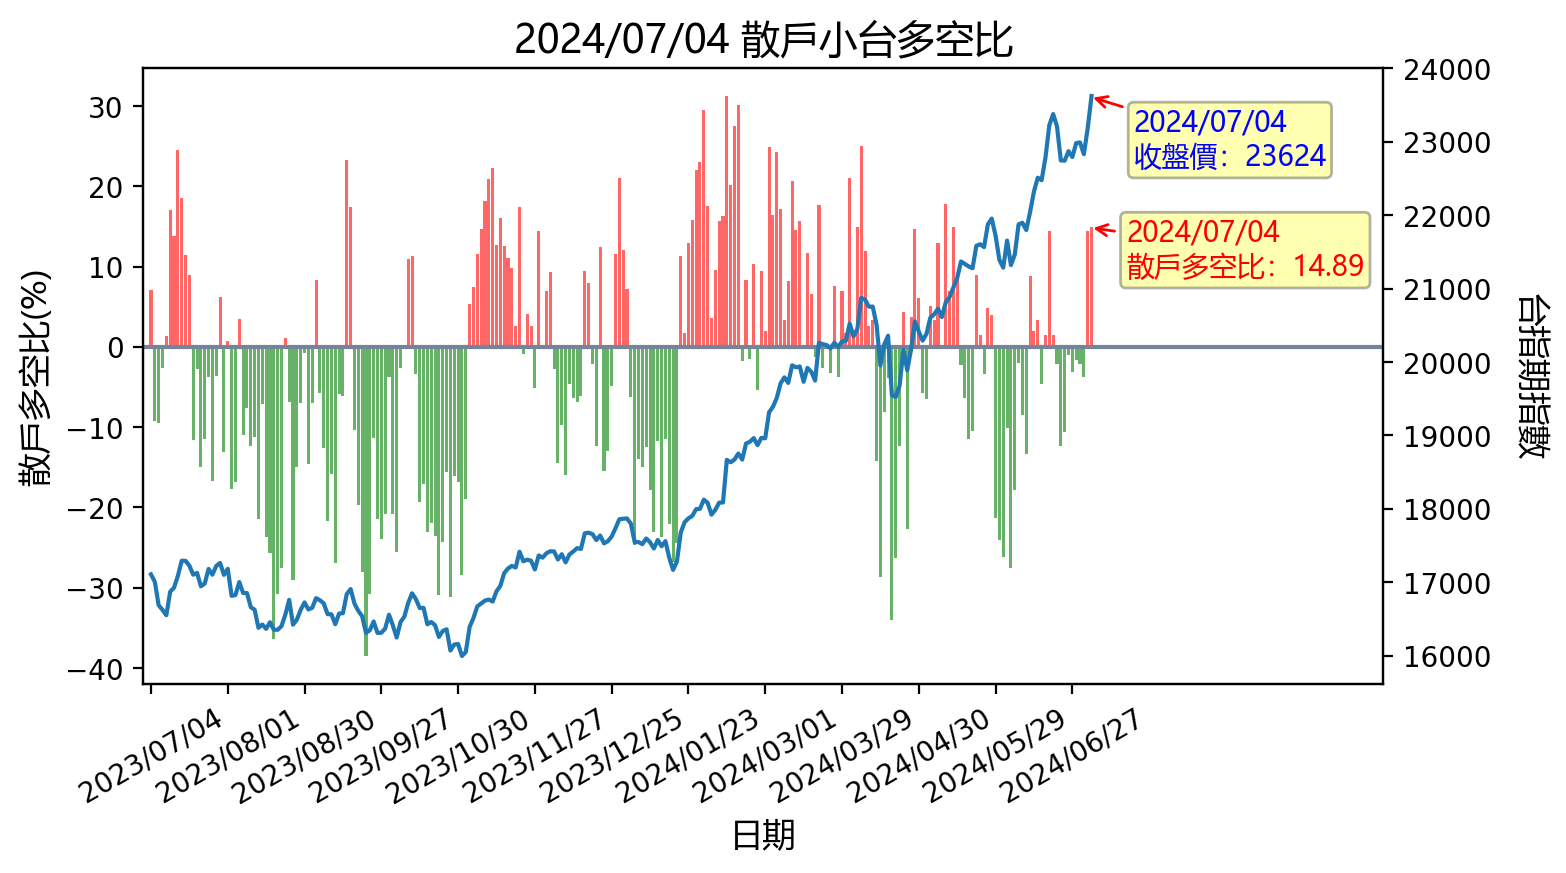
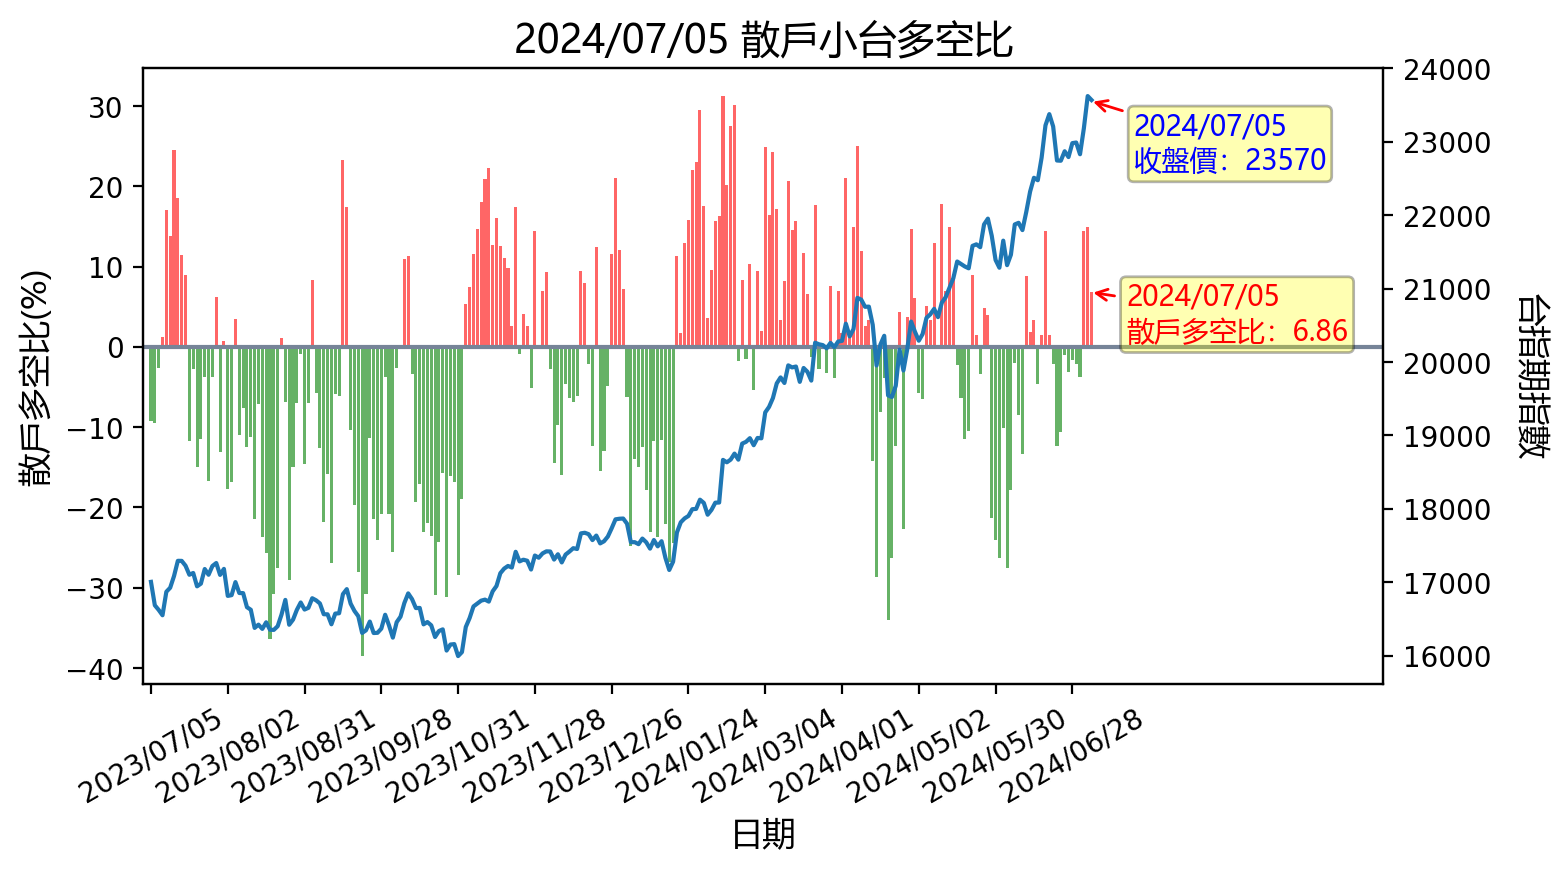
更新時間: Fri Jul  5 16:33:50 CST 2024

diff --git a/README.md b/README.md
@@ -1,12 +1,12 @@
-## 20240704 台指期「預估換倉成本」
+## 20240705 台指期「預估換倉成本」
 ![](images/txfcost.png)
 
-## 20240704 台指期「散戶小台多空比」
+## 20240705 台指期「散戶小台多空比」
 ![](images/bbiri.png)
 
-## 20240704 台指選擇權「Put/Call Ratios」
+## 20240705 台指選擇權「Put/Call Ratios」
 ![](images/pcratio.png)
 
-## 20240704 台指期「大額交易人」
+## 20240705 台指期「大額交易人」
 ![](images/blocktrade.png)
 
